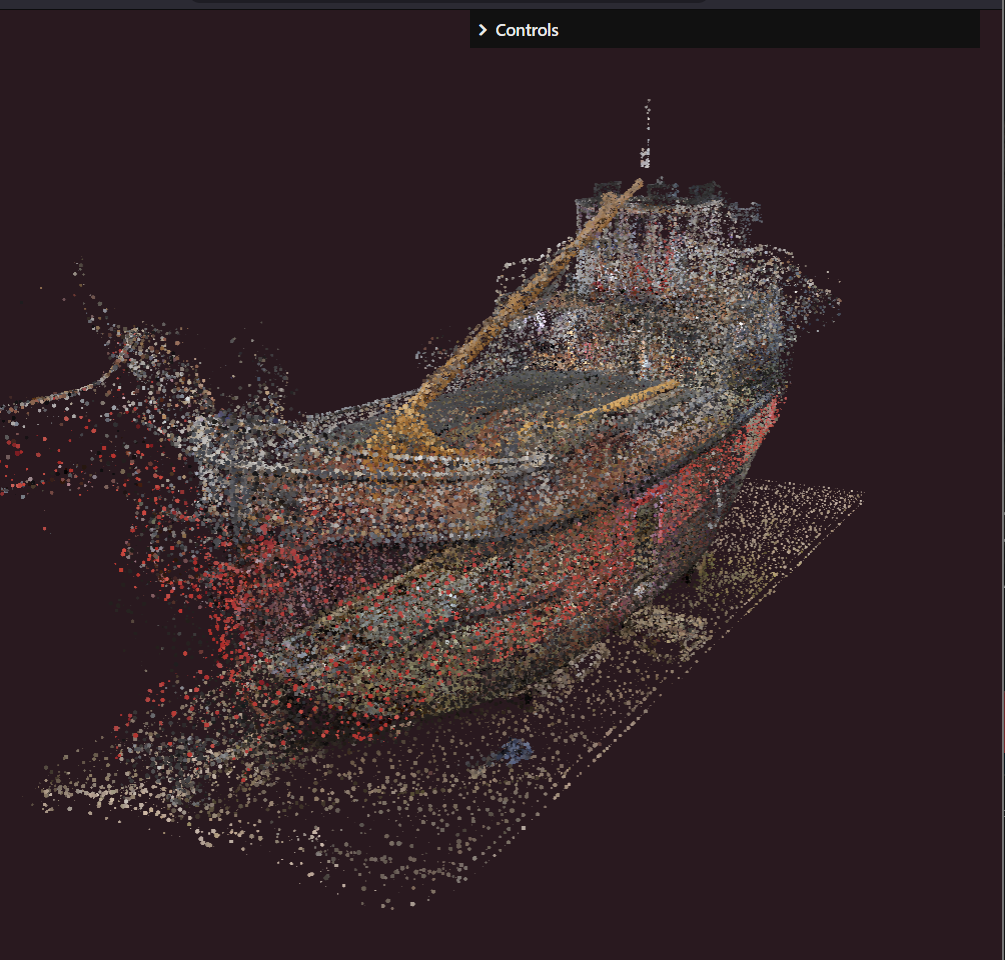
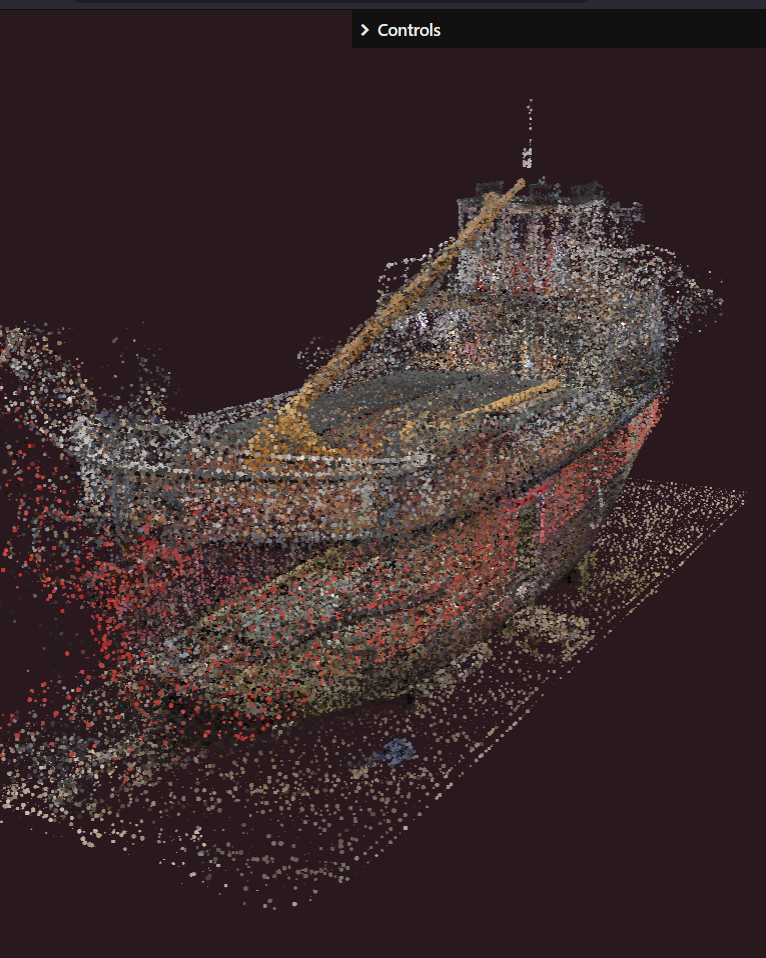
feat: minor ui update

Changed region(s): [[0.0, 0.1514, 0.9608, 0.9384], [0.9909, 0.0, 1.0, 1.0], [0.4804, 0.0, 0.5705, 0.0605]]

diff --git a/src/Experiance/Ui/Labs.js b/src/Experiance/Ui/Labs.js
@@ -23,6 +23,20 @@ export default class Labs{
                     </div> 
                 </div>
                 <div class="slider slider-lab">
+                <div class="wo-am">
+                    <div class="wo-spacer">
+                        <svg width="988" height="120" viewBox="0 0 988 120" fill="none" xmlns="http://www.w3.org/2000/svg">
+                            <path d="M60 10L110 60L60 110L10 60L60 10Z" fill="#FFFEFE"/>
+                            <path d="M119.293 60L60 119.293L0.707031 60L60 0.707031L119.293 60Z" stroke="white"/>
+                            <path d="M928 10L978 60L928 110L878 60L928 10Z" fill="white"/>
+                            <path d="M987.293 60L928 119.293L868.707 60L928 0.707031L987.293 60Z" stroke="white"/>
+                            <path d="M266 10L316 60L266 110L216 60L266 10Z" fill="white"/>
+                            <path d="M712 10L762 60L712 110L662 60L712 10Z" fill="white"/>
+                            <path d="M489 10L539 60L489 110L439 60L489 10Z" fill="white"/>
+                            <path d="M60 60H928" stroke="white"/>
+                        </svg>
+                     </div>
+                </div>
                     <div class="sliders">
                     </div>
                 </div>
@@ -32,31 +46,61 @@ export default class Labs{
 
     setInstance(){
         let element = document.querySelector('div.slider-lab .sliders');
-        let i=0
-        let injectElement = LabsCards.map( (d,j) => `
-            <div class="slider-cont i-${j}"> 
-                <div class="cont-frac"> 
-                    <span class="s-empty"> 
-                    </span>
-                    <div class="s-vis"> 
-                        <div class="s-image"> 
-                            <img src="${d.img}" >
+        let injectElement = LabsCards.map( (d,i) => `
+
+          <div class="slider-cont sli-${i}"> 
+                <div class="side-m"> 
+                    <div class="s-vis">
+                        <div class="s-image">
+                            <img src="${d.img}" />
                         </div>
                         <div class="s-icon"> 
                             ${d.icon.map( k =>`
                                 <div class='icon-cont'> 
-                                    ${k.svg}
-                                </div>
-                                `).join('')}
+                                        ${k.svg}
+                                </div>`).join('')}
                         </div> 
-                    </div>
-                    <div class="s-desc"> 
-                        <div class="s-name">
-                            <h2>${d.name}</h2>
+                     </div>
+                    <div class="s-disc">
+                        <div class="s-line">
+                        </div>
+                        <div class="s-det"> 
+                            <div class="s-index">
+                                <p>0${i}</p>
+                            </div>
+                            <div class="s-name"> 
+                                <h2> ${d.name}</h2>
+                            </div>
                         </div>
                     </div>
                 </div>
             </div>`).join('');
+            // <div class="slider-cont i-${j}"> 
+            //     <div class="cont-frac"> 
+            //         <span class="s-empty"> 
+            //         </span>
+            //         <div class="s-vis"> 
+            //             <div class="s-image"> 
+            //                 <img src="${d.img}" >
+            //             </div>
+            //             <div class="s-icon"> 
+            //                 ${d.icon.map( k =>`
+            //                     <div class='icon-cont'> 
+            //                         ${k.svg}
+            //                     </div>
+            //                     `).join('')}
+            //             </div> 
+            //         </div>
+            //             <div class="s-det"> 
+            //                 <div class="s-index">
+            //                     <p>0${j}</p>
+            //                 </div>
+            //                 <div class="s-name"> 
+            //                     <h2> ${d.name}</h2>
+            //                 </div>
+            //             </div>
+            //     </div>
+            // </div>`).join('');
         element.innerHTML = injectElement;
         
     }

diff --git a/src/Experiance/Styles/Labs.css b/src/Experiance/Styles/Labs.css
@@ -29,11 +29,103 @@
 }
 
 #labs {
-    .slider.slider-lab {
-        .sliders {
-            .slider-cont {
-                width: 50vw;
-                .cont-frac {
+.slider.slider-lab{
+        display: grid;
+        grid-template-rows: 9% 91%;
+        .wo-am{
+            /* overflow: hidden; */
+            position: relative;
+            max-width: 100vw;
+            .wo-spacer{
+                display: grid;
+                justify-content: center;
+                /* background-color:blueviolet; */
+                width: fit-content;
+                position: absolute;
+                bottom: 0;
+                right: 200px;
+                svg{
+                    width: 350px;
+                    height: 40px;
+                    /* background-color: beige; */
+                }    
+            }
+  
+        }
+
+        .slider-cont{
+            width: 33vw;
+            .empty{
+                height: 40px;
+                display: block;
+            }
+            .side-m{
+                padding: 30px;
+                padding-top: 20px;
+                /* width: 80%; */
+
+                .s-vis {
+                        position: relative;
+
+                        .s-image{
+                            img{
+                                width: 100%;
+                                object-fit: contain;
+                                box-sizing: border-box;
+                            }
+                        }
+
+                        .s-icon{
+                            position: absolute;
+                            bottom: 0px;
+                            width: 100%;
+                            display: flex;
+                            justify-content:center;
+                            gap: 10px;
+
+                            .icon-cont{
+                                svg{
+                                    width: 30px;
+                                }
+                            }
+
+                        }
+                    }
+                
+
+
+                
+                .s-disc{
+                    .s-line{
+                        width: 100%;
+                        height: 2px;
+                        background-color: #fff;
+                    }
+                    .s-det{
+                        display: grid;
+                        grid-template-columns: 20% 80%;
+
+                        .s-index{
+                            color: #fff;
+                            /* text-align:; */
+                            display: grid;
+                            align-items: end;
+                            justify-content: start;
+                            p{
+                                font-size: 1.5rem;
+                            }
+                        }
+                        .s-name{
+                            text-align: right;
+                        }
+                    }
+                }
+            }
+        }
+        
+    }
+}                
+/* .cont-frac {
                     padding: 0 70px;
                     .s-empty{
                         height: 70px;
@@ -43,8 +135,6 @@
                         position: relative;
 
                         .s-image {
-                            /* display: flex;
-                            justify-content: center; */
                             img {
                                 width: 100%;
                                 object-fit: cover;
@@ -58,8 +148,7 @@
                             display: flex;
                             justify-content:center;
                             gap: 10px;
-                            /* padding: 0 20px; */
-                            /* flex-direction:row; */
+
                             .icon-cont{
                                 svg{
                                     width: 30px;
@@ -68,8 +157,4 @@
 
                         }
                     }
-                }
-            }
-        }
-    }
-}
+                } */

diff --git a/src/Experiance/Ui/Models.js b/src/Experiance/Ui/Models.js
@@ -21,6 +21,21 @@ export default class Models{
                             </div>
                         </div>
                         <div class="slider slider-mod">
+                            <div class="wo-am"> 
+                                <div class="wo-spacer"> 
+                                    <svg width="972" height="90" viewBox="0 0 972 90" fill="none" xmlns="http://www.w3.org/2000/svg">
+                                        <path d="M85.7369 79.5H18.1861L51.9615 20.999L85.7369 79.5Z" fill="#FFFCFC" stroke="white" stroke-width="11"/>
+                                        <path d="M103.057 89.5H0.865822L51.9615 0.999023L103.057 89.5Z" stroke="white"/>
+                                        <path d="M953.737 79.5H886.186L919.962 20.999L953.737 79.5Z" fill="#FFFCFC" stroke="white" stroke-width="11"/>
+                                        <path d="M284.737 79.5H217.186L250.962 20.999L284.737 79.5Z" fill="#FFFCFC" stroke="white" stroke-width="11"/>
+                                        <path d="M730.737 79.5H663.186L696.962 20.999L730.737 79.5Z" fill="#FFFCFC" stroke="white" stroke-width="11"/>
+                                        <path d="M507.737 79.5H440.186L473.962 20.999L507.737 79.5Z" fill="#FFFCFC" stroke="white" stroke-width="11"/>
+                                        <path d="M971.057 89.5H868.866L919.962 0.999023L971.057 89.5Z" stroke="white"/>
+                                        <path d="M51.4615 54.5H918.962" stroke="#F2F2F2"/>
+                                    </svg>
+                                </div>
+
+                            </div>
                             <div class="sliders">
 
                             </div>
@@ -33,7 +48,6 @@ export default class Models{
         let i=1
         let injectElement = this.array.map( (d, i) => `
             <div class="slider-cont sli-${i}"> 
-                <span class="empty"> </span>
                 <div class="side-m"> 
                     <div class="s-image">
                         <img src="${d.img}" />

diff --git a/src/Experiance/Styles/Models.css b/src/Experiance/Styles/Models.css
@@ -13,6 +13,29 @@
 
 #models{
     .slider.slider-mod{
+        display: grid;
+        grid-template-rows: 9% 91%;
+        .wo-am{
+            /* overflow: hidden; */
+            position: relative;
+            max-width: 100vw;
+            .wo-spacer{
+                display: grid;
+                justify-content: center;
+                /* background-color:blueviolet; */
+                width: fit-content;
+                position: absolute;
+                bottom: 0;
+                right: 200px;
+                svg{
+                    width: 350px;
+                    height: 40px;
+                    /* background-color: beige; */
+                }    
+            }
+  
+        }
+
         .slider-cont{
             width: 33vw;
             .empty{
@@ -21,6 +44,7 @@
             }
             .side-m{
                 padding: 30px;
+                padding-top: 20px;
                 /* width: 80%; */
                 .s-image{
                     img{

diff --git a/src/Experiance/Ui/Ui.js b/src/Experiance/Ui/Ui.js
@@ -21,9 +21,10 @@ export default class Ui{
 
         this.nav = new Nav(this.container, this.ui)
         this.home = new Home(this.container, this.ui);
-        this.project = new Project(this.container, this.ui);
-        this.labs = new Labs(this.container, this.ui);
+        this.project = new Project(this.container, this.ui);        
         this.models = new Models(this.container, this.ui)
+        this.labs = new Labs(this.container, this.ui);
+
         this.contact = new Contact(this.container, this.ui)
 
     }
